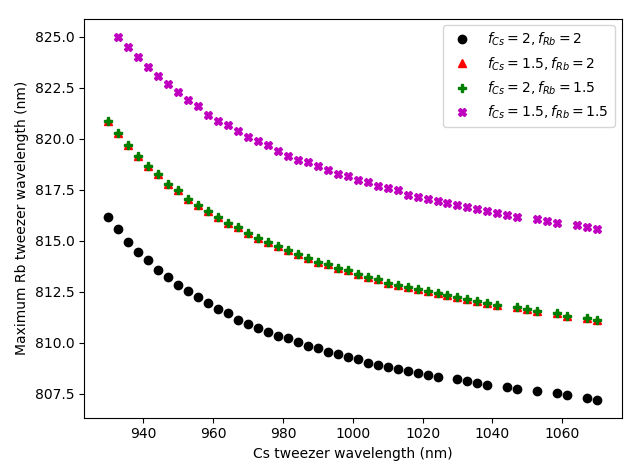
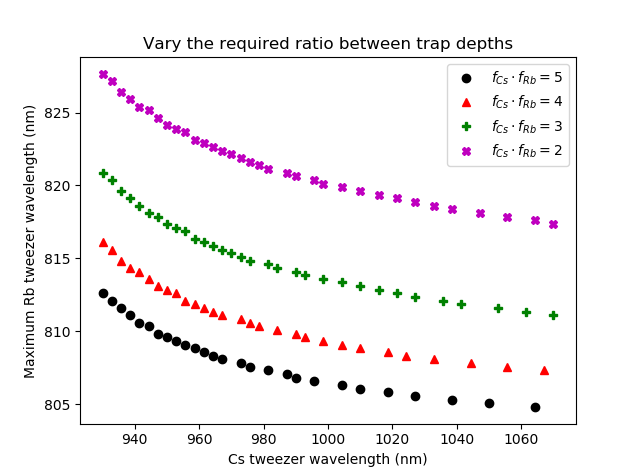
change Rbwl vs Cswl plot varying factors

diff --git a/ExtraFunctions/CombinedTrap.py b/ExtraFunctions/CombinedTrap.py
@@ -150,16 +150,18 @@ def plotc23(fCs=factorCs, fRb=factorRb, p=power, ls='ko', label='', newfig=True)
 def plotcvary():
     """Vary the factors in the stability conditions to see how the plot of 
     max Rb tweezer wavelength against Cs tweezer wavelength varies"""
-    csfactors = [2,1.5,2,1.5]
-    rbfactors = [2,2,1.5,1.5]
-    labels = ['$f_{Cs}=%s, f_{Rb}=%s$'%(csfactors[i],rbfactors[i]) for i in range(len(csfactors))]
+    # csfactors = [2,1.5,2,1.5]
+    # rbfactors = [2,2,1.5,1.5]
+    # labels = ['$f_{Cs}=%s, f_{Rb}=%s$'%(csfactors[i],rbfactors[i]) for i in range(len(csfactors))]
+    factors = [5, 4, 3, 2]
+    labels = ['$f_{Cs} \cdot f_{Rb}=%s$'%f for f in factors]
     linestyles = ['ko', 'r^', 'gP', 'mX']
     plt.figure()
     plt.title('Vary the required ratio between trap depths')
     plt.xlabel('Cs tweezer wavelength (nm)')
     plt.ylabel('Maximum Rb tweezer wavelength (nm)')
     for i in range(len(labels)):
-        plotc23(fCs=csfactors[i], fRb=rbfactors[i], ls=linestyles[i], 
+        plotc23(fCs=factors[i]**0.5, fRb=factors[i]**0.5, ls=linestyles[i], 
                     label=labels[i], newfig=False)
     plt.legend()
                 
@@ -396,9 +398,12 @@ if __name__ == "__main__":
             checkfit() # Check the fit of the quadratic to the combined potential
         if any([argv == '6' for argv in sys.argv]):
             axialfit() # fit to the potential in the  axial direction 
+        if any([argv == '7' for argv in sys.argv]):
+            plotcvary() # Rbwl vs Cswl for different threshold conditions stringency
         if any([argv == 'all' for argv in sys.argv]):
             # plotc12()
             # plotc23()
+            plotcvary()
             checkfit()
             axialfit()
             plotc123()
